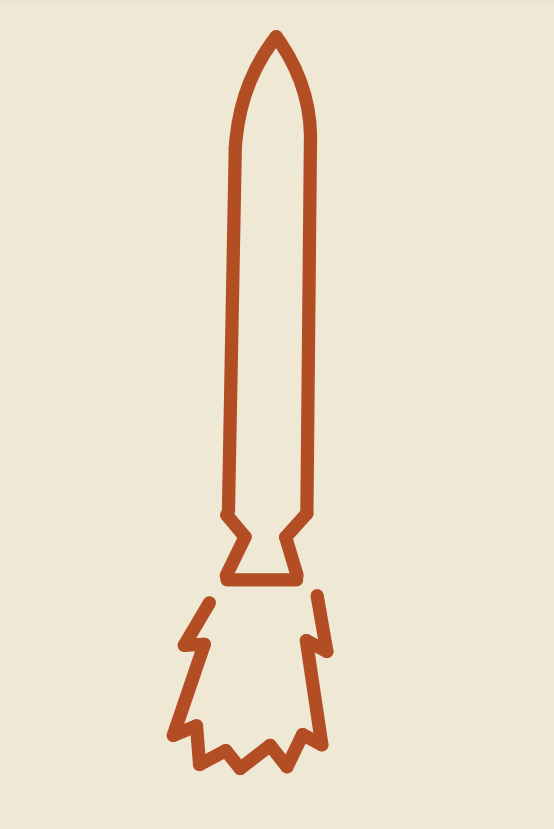
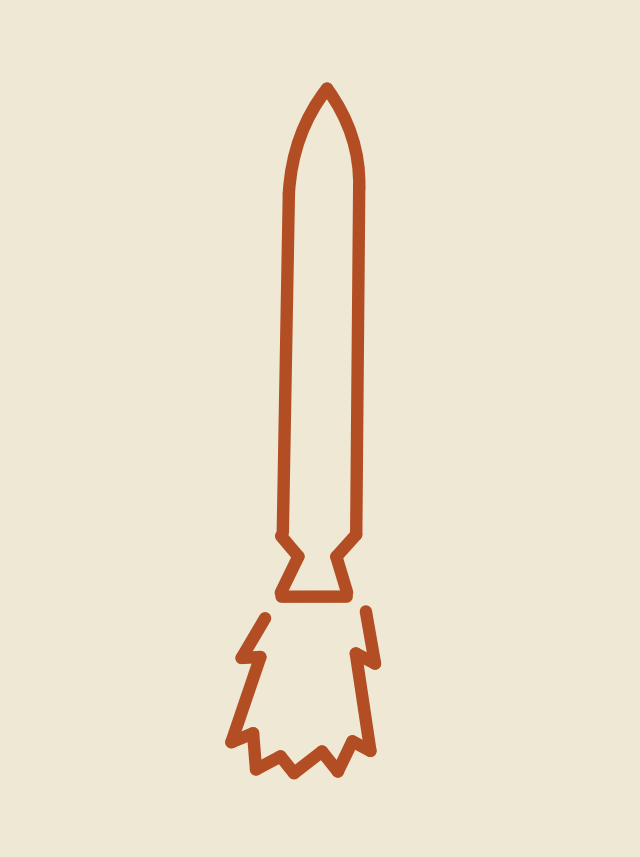
updated images

Changed region(s): [[0.3069, 0.0302, 0.6137, 0.9349]]

diff --git a/styles/zohastyle.css b/styles/zohastyle.css
@@ -21,7 +21,7 @@
   --secondary_underline: 5px;
   --primary_underline: 10.5px;
   --stick_weight: 800;
-  --image_width: 150px;
+  --image_width: 160px;
   --choose_radius: 16px;
   --picture_text_gap: 20px;
   --para_gap: 20px;
